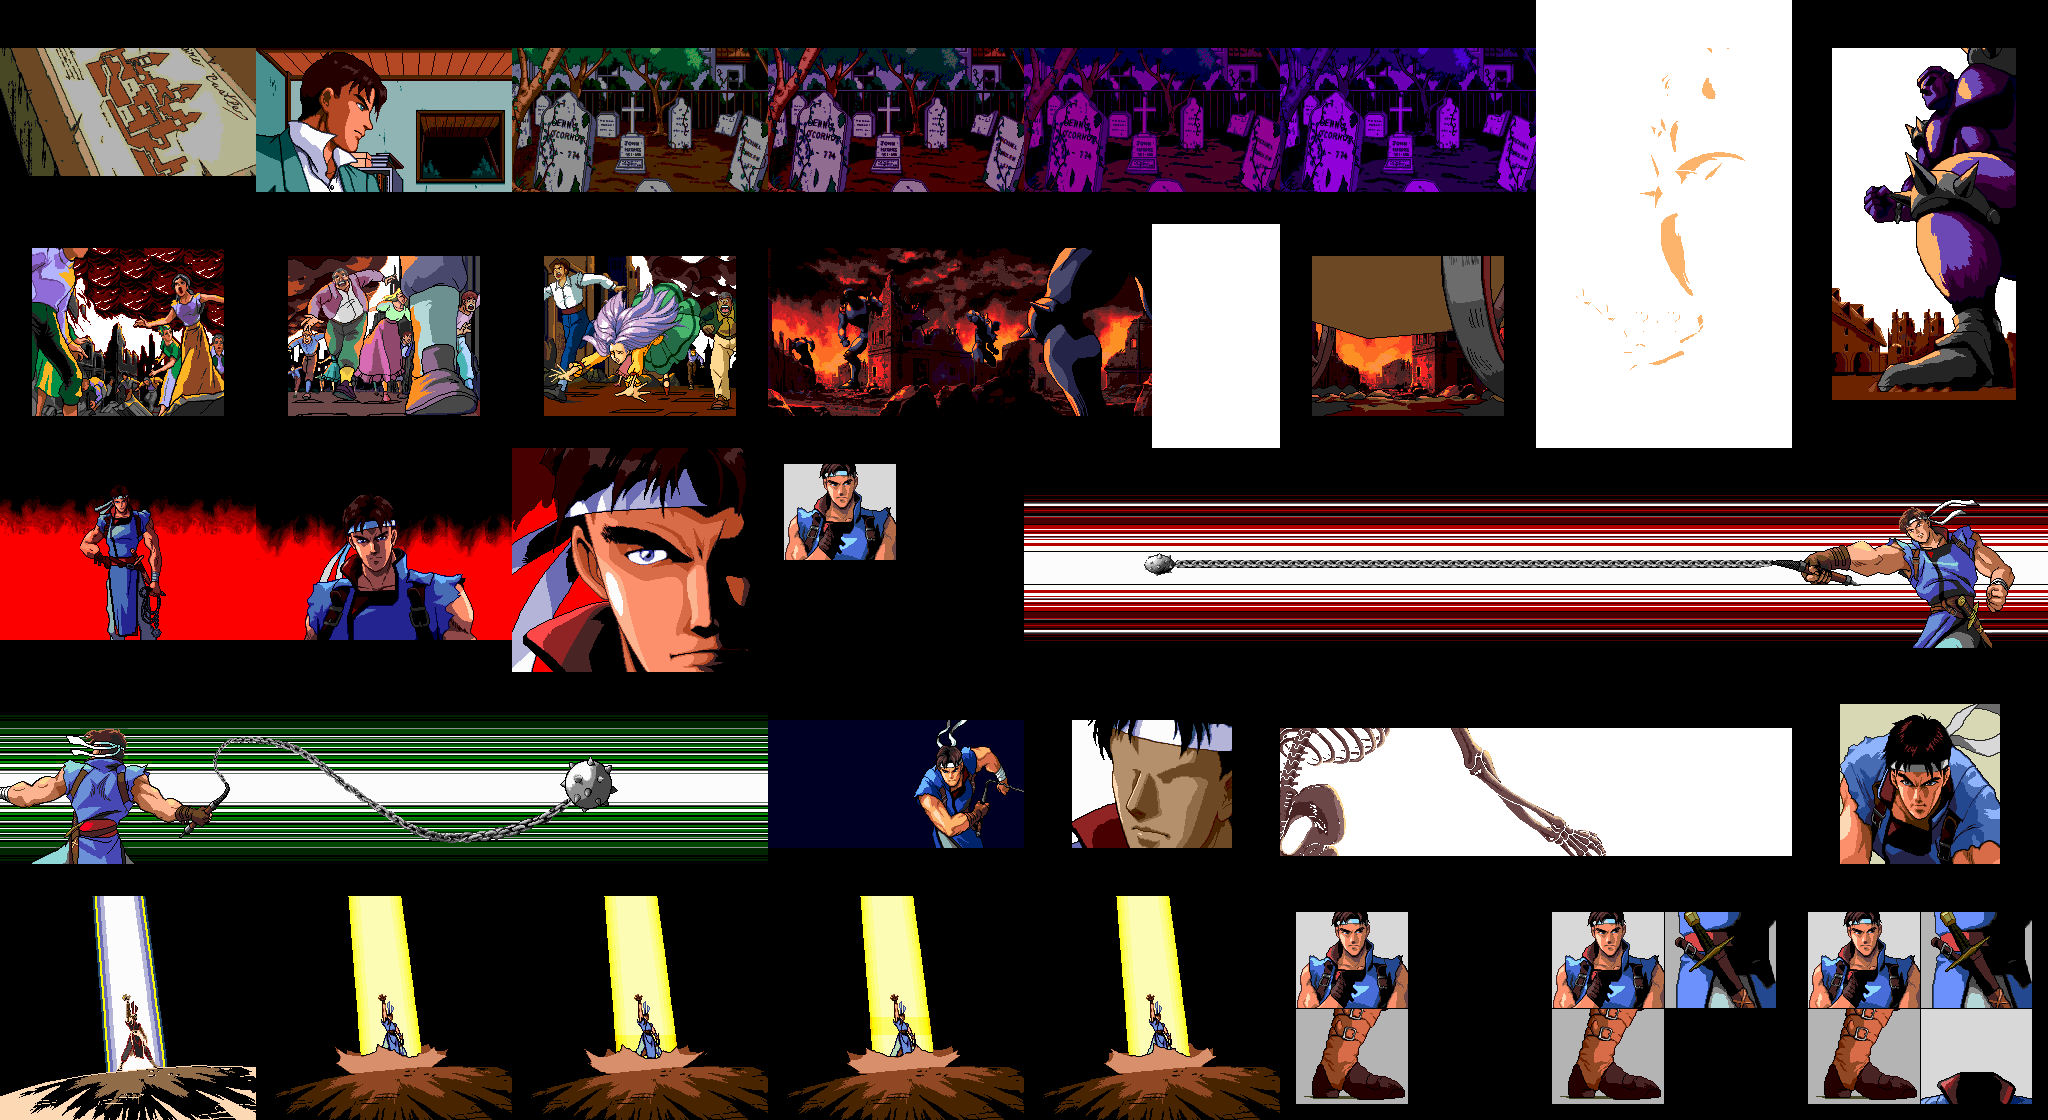
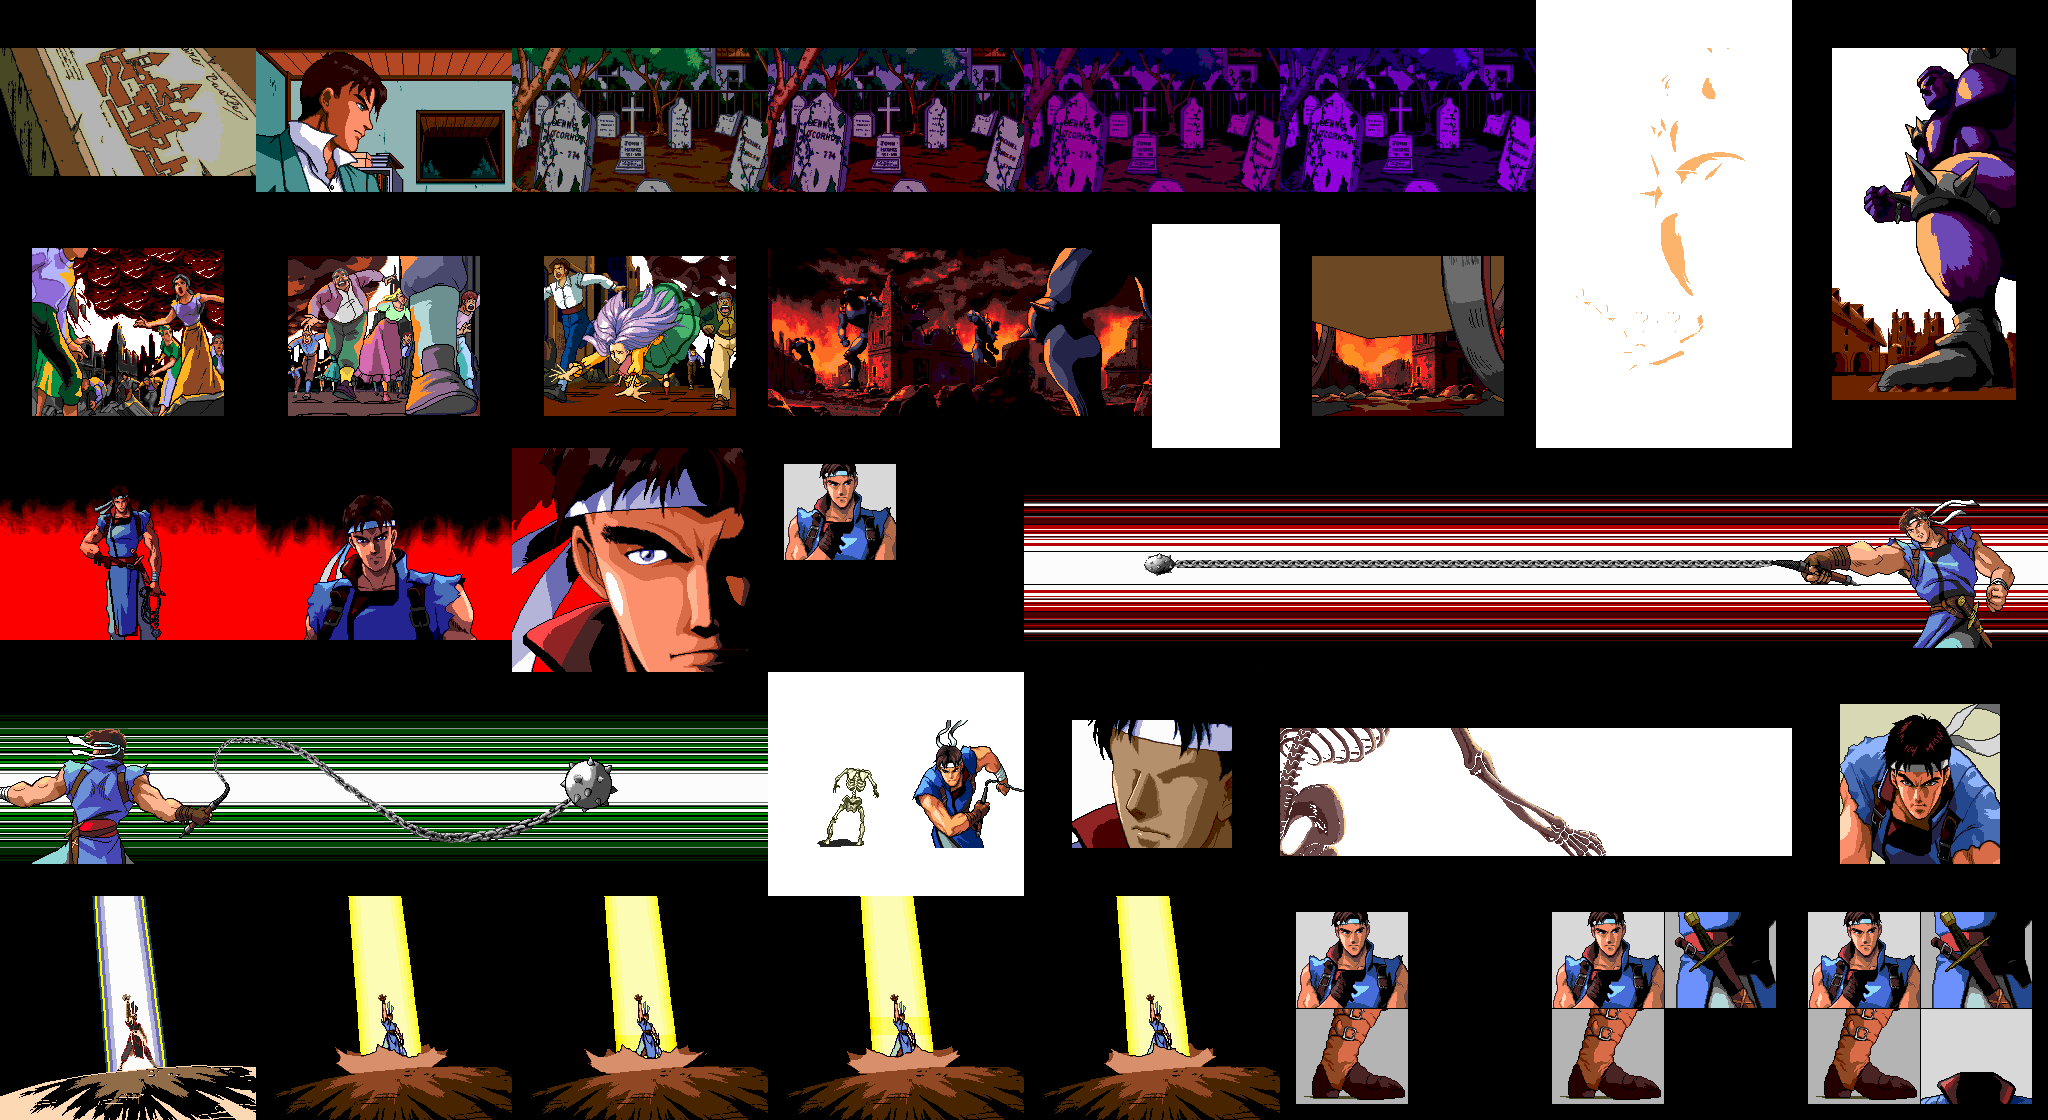
Intro guay acabada, faltan retoques pero bueno

Changed region(s): [[0.375, 0.5938, 0.5, 0.8125]]

diff --git a/DraculaX_PC/CoolIntro.cpp b/DraculaX_PC/CoolIntro.cpp
@@ -17,7 +17,7 @@ void CoolIntro::initChild()
 	Texture* pixTex = TextureManager::instance().getTexture("pixel");
 	blackBar48px = TexturedQuad::createTexturedQuad(glm::vec2(0.f, 0.f), glm::vec2(SCREEN_WIDTH, 48.f), *pixTex, *shader);
 	blackBar32px = TexturedQuad::createTexturedQuad(glm::vec2(0.f, 0.f), glm::vec2(SCREEN_WIDTH, 32.f), *pixTex, *shader);
-	redBackground = TexturedQuad::createTexturedQuad(glm::vec2(0.f, 0.f), glm::vec2(SCREEN_WIDTH, SCREEN_HEIGHT), *pixTex, *shader);
+	colorBackground = TexturedQuad::createTexturedQuad(glm::vec2(0.f, 0.f), glm::vec2(SCREEN_WIDTH, SCREEN_HEIGHT), *pixTex, *shader);
 	blackBar32px->setPosition(glm::vec2(0, SCREEN_HEIGHT - 32));
 	blackBar48px->setColor(glm::vec3(0));
 	blackBar32px->setColor(glm::vec3(0));
@@ -145,7 +145,7 @@ void CoolIntro::initChild()
 	sp->changeAnimation(0);
 	bg.bg = sp;
 	bg.time = 21.f;
-	bg.duration = 4.f;
+	bg.duration = 3.75f;
 	bg.id = GIANT;
 	film.push(bg);
 	sp = Sprite::createSprite(fullScreen, offset, bgTex, shader);
@@ -295,6 +295,100 @@ void CoolIntro::initChild()
 	bg.duration = 1.5f;
 	bg.id = RICHTER_WHIP2;
 	film.push(bg);
+	sp = Sprite::createSprite(glm::ivec2(SCREEN_WIDTH/2, SCREEN_HEIGHT), glm::vec2(0.0625f, 0.2f), bgTex, shader);
+	sp->setNumberAnimations(1);
+	sp->setAnimationSpeed(0, 0);
+	sp->addKeyframe(0, glm::vec2(0.375f, 0.6f));
+	sp->changeAnimation(0);
+	sp->setPosition(glm::vec2(-SCREEN_WIDTH, 0));
+	Texture* pfire = new Texture();
+	pfire->loadFromFile("images/cinematics/intro_cool/purple_fire.png", TEXTURE_PIXEL_FORMAT_RGBA);
+	TextureManager::instance().addTexture("pfire", pfire);
+	introSprites[PURPLE_FIRE] = Sprite::createSprite(glm::ivec2(80), glm::vec2(0.2f, 1.f), pfire, shader);
+	introSprites[PURPLE_FIRE]->setNumberAnimations(1);
+	introSprites[PURPLE_FIRE]->setAnimationSpeed(0, 10);
+	introSprites[PURPLE_FIRE]->animatorX(0, 5, 0.f, 0.2f, 0.f);
+	introSprites[PURPLE_FIRE]->changeAnimation(0);
+	introSprites[PURPLE_FIRE]->setPosition(glm::vec2(49, 48));
+	introQuads[RICHTER2] = TexturedQuad::createTexturedQuad(glm::vec2(0.4375f, 0.6f), glm::vec2(0.5f, 0.8f), *bgTex, *shader);
+	introQuads[RICHTER2]->setPosition(glm::vec2(SCREEN_WIDTH * 2 + SCREEN_WIDTH/2, 0));
+	bg.bg = sp;
+	bg.time = 44.75f;
+	bg.duration = 3.25f;
+	bg.id = RICHTER_WHIP3;
+	film.push(bg);
+	sp = Sprite::createSprite(fullScreen, offset, bgTex, shader);
+	sp->setNumberAnimations(1);
+	sp->setAnimationSpeed(0, 0);
+	sp->addKeyframe(0, glm::vec2(0.5f, 0.6f));
+	sp->changeAnimation(0);
+	Texture* richtEyes = new Texture();
+	richtEyes->loadFromFile("images/cinematics/intro_cool/richter_sus.png", TEXTURE_PIXEL_FORMAT_RGBA);
+	TextureManager::instance().addTexture("richtEyes", richtEyes);
+	introSprites[RICHTER_EYES] = Sprite::createSprite(fullScreen, glm::vec2(0.25f, 1.f), richtEyes, shader);
+	introSprites[RICHTER_EYES]->setNumberAnimations(2);
+	introSprites[RICHTER_EYES]->setAnimationSpeed(0, 10);
+	introSprites[RICHTER_EYES]->animatorX(0, 2, 0.f, 0.25f, 0.f);
+	introSprites[RICHTER_EYES]->setAnimationSpeed(1, 0);
+	introSprites[RICHTER_EYES]->addKeyframe(1, glm::vec2(0.5f, 0.f));
+	introSprites[RICHTER_EYES]->setTransition(0, 1);
+	introSprites[RICHTER_EYES]->changeAnimation(0);
+	bg.bg = sp;
+	bg.time = 48.f;
+	bg.duration = 2.f;
+	bg.id = RICHTER_SUS;
+	film.push(bg);
+	sp = Sprite::createSprite(glm::ivec2(SCREEN_WIDTH * 2, SCREEN_HEIGHT), glm::vec2(0.25f, 0.2f), bgTex, shader);
+	sp->setNumberAnimations(1);
+	sp->setAnimationSpeed(0, 0);
+	sp->addKeyframe(0, glm::vec2(0.625f, 0.6f));
+	sp->changeAnimation(0);
+	sp->setPosition(glm::vec2(-SCREEN_WIDTH, 0));
+	Texture* richtAmbushed = new Texture();
+	richtAmbushed->loadFromFile("images/cinematics/intro_cool/richter_ambushed.png", TEXTURE_PIXEL_FORMAT_RGBA);
+	TextureManager::instance().addTexture("richtAmbushed", richtAmbushed);
+	Texture* skelAmbush = new Texture();
+	skelAmbush->loadFromFile("images/cinematics/intro_cool/skeleton.png", TEXTURE_PIXEL_FORMAT_RGBA);
+	TextureManager::instance().addTexture("skelAmbush", skelAmbush);
+	introQuads[RICHTER3] = TexturedQuad::createTexturedQuad(glm::vec2(0), glm::vec2(1), *richtAmbushed, *shader);
+	introQuads[SKELETON_AMBUSH] = TexturedQuad::createTexturedQuad(glm::vec2(0), glm::vec2(1), *skelAmbush, *shader);
+	introQuads[RICHTER3]->setPosition(glm::vec2(79, 56));
+	introQuads[SKELETON_AMBUSH]->setPosition(glm::vec2(21, 109));
+	bg.bg = sp;
+	bg.time = 50.25f;
+	bg.duration = 2.25f;
+	bg.id = RICHTER_AMBUSHED;
+	film.push(bg);
+	sp = Sprite::createSprite(fullScreen, offset, bgTex, shader);
+	sp->setNumberAnimations(1);
+	sp->setAnimationSpeed(0, 0);
+	sp->addKeyframe(0, glm::vec2(0.875f, 0.6f));
+	sp->changeAnimation(0);
+	Texture* hands = new Texture();
+	hands->loadFromFile("images/cinematics/intro_cool/hands.png", TEXTURE_PIXEL_FORMAT_RGBA);
+	TextureManager::instance().addTexture("richtHands", hands);
+	introQuads[RIGHT_HAND] = TexturedQuad::createTexturedQuad(glm::vec2(0.f, 0.f), glm::vec2(0.5f, 1.f), *hands, *shader);
+	introQuads[LEFT_HAND] = TexturedQuad::createTexturedQuad(glm::vec2(0.5f, 0.f), glm::vec2(1.f, 1.f), *hands, *shader);
+	introQuads[RIGHT_HAND]->setPosition(glm::vec2(50, 142));
+	introQuads[LEFT_HAND]->setPosition(glm::vec2(142, 142));
+	bg.bg = sp;
+	bg.time = 52.75f;
+	bg.duration = 1.f;
+	bg.id = RICHTER_ULT1;
+	film.push(bg);
+	sp = Sprite::createSprite(fullScreen, offset, bgTex, shader);
+	sp->setNumberAnimations(2);
+	sp->setAnimationSpeed(0, 30);
+	sp->addKeyframe(0, glm::vec2(0.f, 0.8f));
+	sp->setAnimationSpeed(1, 30);
+	sp->animatorX(1, 4, 0.125f, 0.125f, 0.8f);
+	sp->setTransition(0, 1);
+	sp->changeAnimation(0);
+	bg.bg = sp;
+	bg.time = 54.f;
+	bg.duration = 7.f;
+	bg.id = RICHTER_ULT2;
+	film.push(bg);
 }
 
 void CoolIntro::filmUpdate(int deltaTime)
@@ -365,7 +459,7 @@ void CoolIntro::filmUpdate(int deltaTime)
 		if (timeElapsed >= 26.6f) s->changeAnimation(2);
 		else if (timeElapsed >= 25.75f) s->changeAnimation(1);
 		else s->changeAnimation(0);
-		redBackground->setColor(glm::vec3(redColors[getColorIndex(3, timeElapsed * 10)], 0, 0));
+		colorBackground->setColor(glm::vec3(redColors[getColorIndex(3, timeElapsed * 10)], 0, 0));
 	}
 	else if (filmId == ANNETTE)
 	{
@@ -385,7 +479,7 @@ void CoolIntro::filmUpdate(int deltaTime)
 			}
 			else if (annetteEyesDuration > 0) annetteEyesDuration -= deltaTime;
 		}
-		redBackground->setColor(glm::vec3(redColors[getColorIndex(3, timeElapsed*10)], 0, 0));
+		colorBackground->setColor(glm::vec3(redColors[getColorIndex(3, timeElapsed*10)], 0, 0));
 	}
 	else if (filmId == GIANTS && cameraX > -SCREEN_WIDTH / 2.f)
 	{
@@ -413,6 +507,7 @@ void CoolIntro::filmUpdate(int deltaTime)
 				//cout << "cambio de animacion de las manos" << endl;
 				introSprites[RICHT_HANDS]->changeAnimation(1);
 				cameraX = 0;
+				colorBackground->setColor(glm::vec3(0, 0, 36/255.f));
 			}
 			else
 			{
@@ -449,6 +544,32 @@ void CoolIntro::filmUpdate(int deltaTime)
 	else if (filmId == RICHTER_WHIP2 && film.front().bg->getPosition().x < 0)
 	{
 		film.front().bg->incPosition(glm::vec2(8, 0));
+	}
+	else if (filmId == RICHTER_WHIP3)
+	{
+		Sprite* sp = film.front().bg;
+		if (sp->getPosition().x < 0) sp->incPosition(glm::vec2(2, 0));
+		if (introQuads[RICHTER2]->getPosition().x > 128) introQuads[RICHTER2]->incPosition(glm::vec2(-4, 0));
+		else if (timeElapsed >= 47.25f && !introSprites[PURPLE_FIRE]->animationEnded()) introSprites[PURPLE_FIRE]->update(deltaTime);
+	}
+	else if (filmId == RICHTER_SUS && timeElapsed >= 48.75f)
+	{
+		introSprites[RICHTER_EYES]->update(deltaTime);
+	}
+	else if (filmId == RICHTER_AMBUSHED && film.front().bg->getPosition().x < 0)
+	{
+		introQuads[SKELETON_AMBUSH]->incPosition(glm::vec2(-1, 0));
+		film.front().bg->incPosition(glm::vec2(2, 0));
+	}
+	else if (filmId == RICHTER_ULT1 && introQuads[RIGHT_HAND]->getPosition().y > (SCREEN_HEIGHT - 32 - 64))
+	{
+		introQuads[RIGHT_HAND]->incPosition(glm::vec2(.5, -.5));
+		introQuads[LEFT_HAND]->incPosition(glm::vec2(-.5, -.5));
+	}
+	else if (filmId == RICHTER_ULT2 && timeElapsed >= 57.f && film.front().alpha > 0)
+	{
+		blackScreenAlpha += deltaTime / 3000.f;
+		blackScreen->setAlpha(blackScreenAlpha);
 	}
 	boltTimer -= deltaTime / 1000.f;
 }
@@ -504,12 +625,12 @@ void CoolIntro::render()
 		}
 		else if (filmId == PEOPLE)
 		{
-			redBackground->render();
+			colorBackground->render();
 			film.front().bg->render();
 		}
 		else if (filmId == ANNETTE)
 		{
-			redBackground->render();
+			colorBackground->render();
 			film.front().bg->render();
 			if (introQuads[ANNETTE_EYES]->getPosition().y > 80)
 			{
@@ -540,7 +661,43 @@ void CoolIntro::render()
 			if (timeElapsed >= 38.f) introSprites[RICHT_WHIP]->render();
 			if (film.front().bg->animation() == 3) introSprites[RICHT_FACE]->render();
 		}
+		else if (filmId == RICHTER_WHIP3)
+		{
+			colorBackground->render();
+			film.front().bg->render();
+			if (timeElapsed >= 47.25f && !introSprites[PURPLE_FIRE]->animationEnded()) introSprites[PURPLE_FIRE]->render();
+			introQuads[RICHTER2]->render();
+			blackBar48px->setPosition(glm::vec2(0));
+			blackBar48px->render();
+			blackBar48px->setPosition(glm::vec2(0, SCREEN_HEIGHT - 48));
+			blackBar48px->render();
+		}
+		else if (filmId == RICHTER_SUS)
+		{
+			film.front().bg->render();
+			introSprites[RICHTER_EYES]->render();
+		}
+		else if (filmId == RICHTER_AMBUSHED)
+		{
+			introQuads[SKELETON_AMBUSH]->render();
+			introQuads[SKELETON_AMBUSH]->incPosition(glm::vec2(164, 0));
+			shader->setUniform1f("frameWidth", 1.f);
+			shader->setUniform1i("flip", true);
+			introQuads[SKELETON_AMBUSH]->render();
+			introQuads[SKELETON_AMBUSH]->incPosition(glm::vec2(-164, 0));
+			shader->setUniform1i("flip", false);
+			introQuads[RICHTER3]->render();
+			film.front().bg->render();
+		}
+		else if (filmId == RICHTER_ULT1)
+		{
+			film.front().bg->render();
+			introQuads[RIGHT_HAND]->render();
+			introQuads[LEFT_HAND]->render();
+			blackBar32px->render();
+		}
 		else film.front().bg->render();
+		if (blackScreenAlpha > 0) blackScreen->render();
 	}
 }
 

diff --git a/DraculaX_PC/CoolIntro.h b/DraculaX_PC/CoolIntro.h
@@ -20,20 +20,21 @@ private:
 	enum BGIDs
 	{
 		MAP, RIDING, CASTLEVANIA, CEMENTERY, GIANT, PEOPLE, ANNETTE, GIANTS,
-		RICHTER_BOOT, RICHTER_ARRIVE, RICHTER_READY, RICHTER_WHIP1, RICHTER_WHIP2, RICHTER_WHIP3, RICHTER_LOOK, RICHTER_AMBUSH, RICHTER_ULT1, RICHTER_ULT2
+		RICHTER_BOOT, RICHTER_ARRIVE, RICHTER_READY, RICHTER_WHIP1, RICHTER_WHIP2, RICHTER_WHIP3, RICHTER_SUS, RICHTER_AMBUSHED, RICHTER_ULT1, RICHTER_ULT2
 	};
 	enum Quads
 	{
-		HAND, RICHTER1, SKY, TREES_FAR, TREES_CLOSE, CAR_TOP, CAR, GRASS, SKELETON_CEMENTERY, GIANT_QUAD, ANNETTE_EYES, ANNETTE_MOUTH, BOOT, BOOT2, COUNT
+		HAND, RICHTER1, SKY, TREES_FAR, TREES_CLOSE, CAR_TOP, CAR, GRASS, SKELETON_CEMENTERY, GIANT_QUAD, ANNETTE_EYES, ANNETTE_MOUTH,
+		BOOT, BOOT2, RICHTER2, RICHTER3, SKELETON_AMBUSH, RIGHT_HAND, LEFT_HAND, COUNT
 	};
 	enum Sprites
 	{
-		WHEELS, HORSES, RICHT_HANDS, RICHT_DUST, RICHT_WHIP, RICHT_FACE, COUNT2
+		WHEELS, HORSES, RICHT_HANDS, RICHT_DUST, RICHT_WHIP, RICHT_FACE, PURPLE_FIRE, RICHTER_EYES, COUNT2
 	};
 	TexturedQuad* blackBar48px;
 	TexturedQuad* blackBar32px;
 	//TexturedQuad* blackBox128x112;
-	TexturedQuad* redBackground;
+	TexturedQuad* colorBackground;
 	TexturedQuad* bolts[2];
 	TexturedQuad* introQuads[COUNT];
 	Sprite* introSprites[COUNT2];
@@ -43,6 +44,7 @@ private:
 	float richter1Alpha = 1.f;
 	float startY;
 	float cameraX = 0.f;
+	float blackScreenAlpha = 0.f;
 	int boltDuration;
 	int annetteEyesDuration;
 	int shakeAngleStep;

diff --git a/DraculaX_PC/Cinematic.cpp b/DraculaX_PC/Cinematic.cpp
@@ -53,7 +53,7 @@ void Cinematic::update(int deltaTime)
         {
             film.front().bg->update(deltaTime);
             filmUpdate(deltaTime);
-            float alpha = film.front().alpha;
+            float alpha = film.front(). alpha;
             if (alpha < 1.f)
             {
                 alpha += deltaTime / 1000.f;
